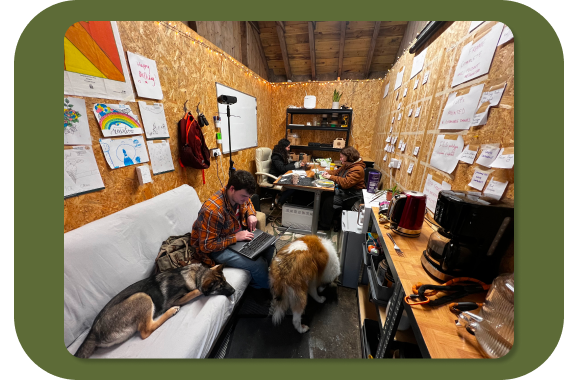
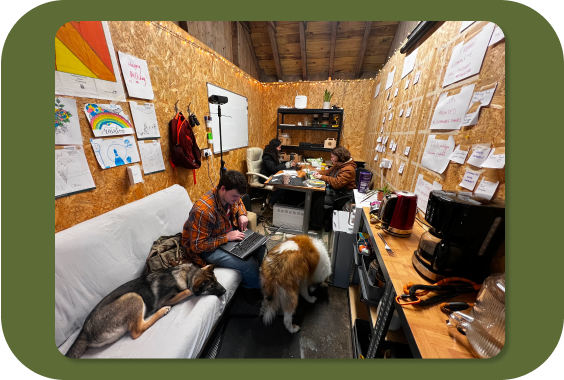
new photo's added

diff --git a/february.html b/february.html
@@ -90,7 +90,7 @@
           <table width="100%">
             <tr>
               <td>
-                <img src="https://github.com/SelinaKionnali/welcome-newsletter-email/blob/main/assets/Rectangle%205934office.png?raw=true" alt="team working in office" style="max-width: 100%; height: auto; display: block; margin: 0 50px;">
+                <img src="https://github.com/SelinaKionnali/welcome-newsletter-email/blob/main/assets/Group%2019%20(1).png?raw=true" alt="team working in office" style="max-width: 100%; height: auto; display: block; margin: 0 50px;">
               </td>
             </tr>
           </table>
@@ -147,7 +147,7 @@
 
         <tr>
           <td >
-            <a href="https://www.linkedin.com/feed/update/urn:li:activity:7158786240555749376"><img src="https://github.com/SelinaKionnali/welcome-newsletter-email/blob/main/assets/Rectangle%205934FigmaCANDO.png?raw=true" alt="the workshop" style="max-width: 100%; height: auto; display: block; margin: 0 auto;"></a>
+            <a href="https://www.linkedin.com/feed/update/urn:li:activity:7158786240555749376"><img src="https://github.com/SelinaKionnali/welcome-newsletter-email/blob/main/assets/Group%2018.png?raw=true" alt="the workshop" style="max-width: 100%; height: auto; display: block; margin: 0 auto;"></a>
         </td>
         </tr>
 
